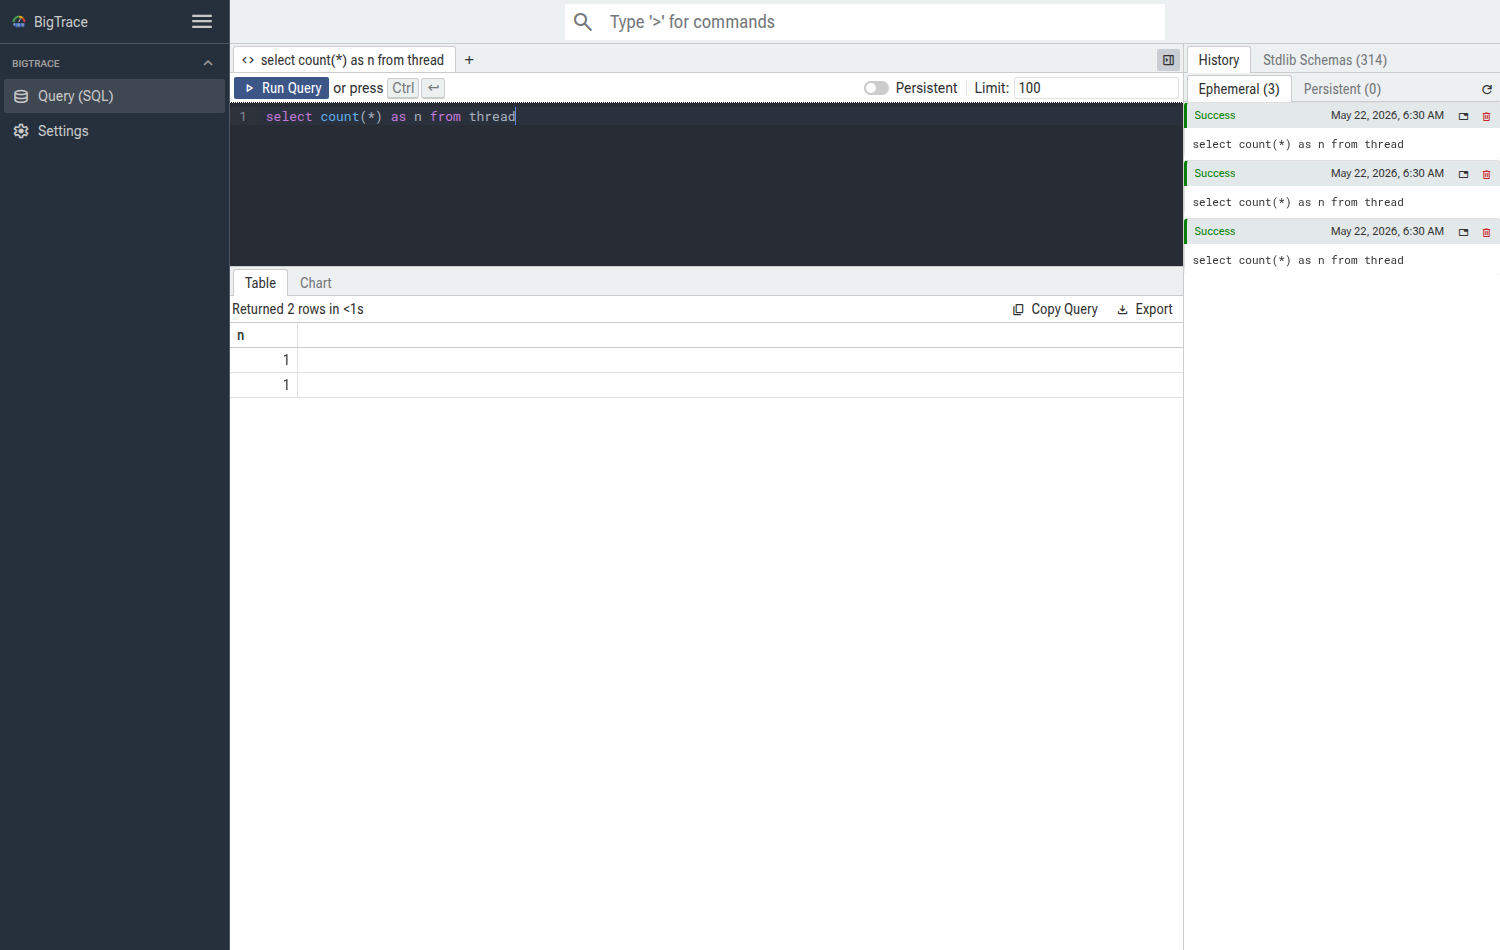
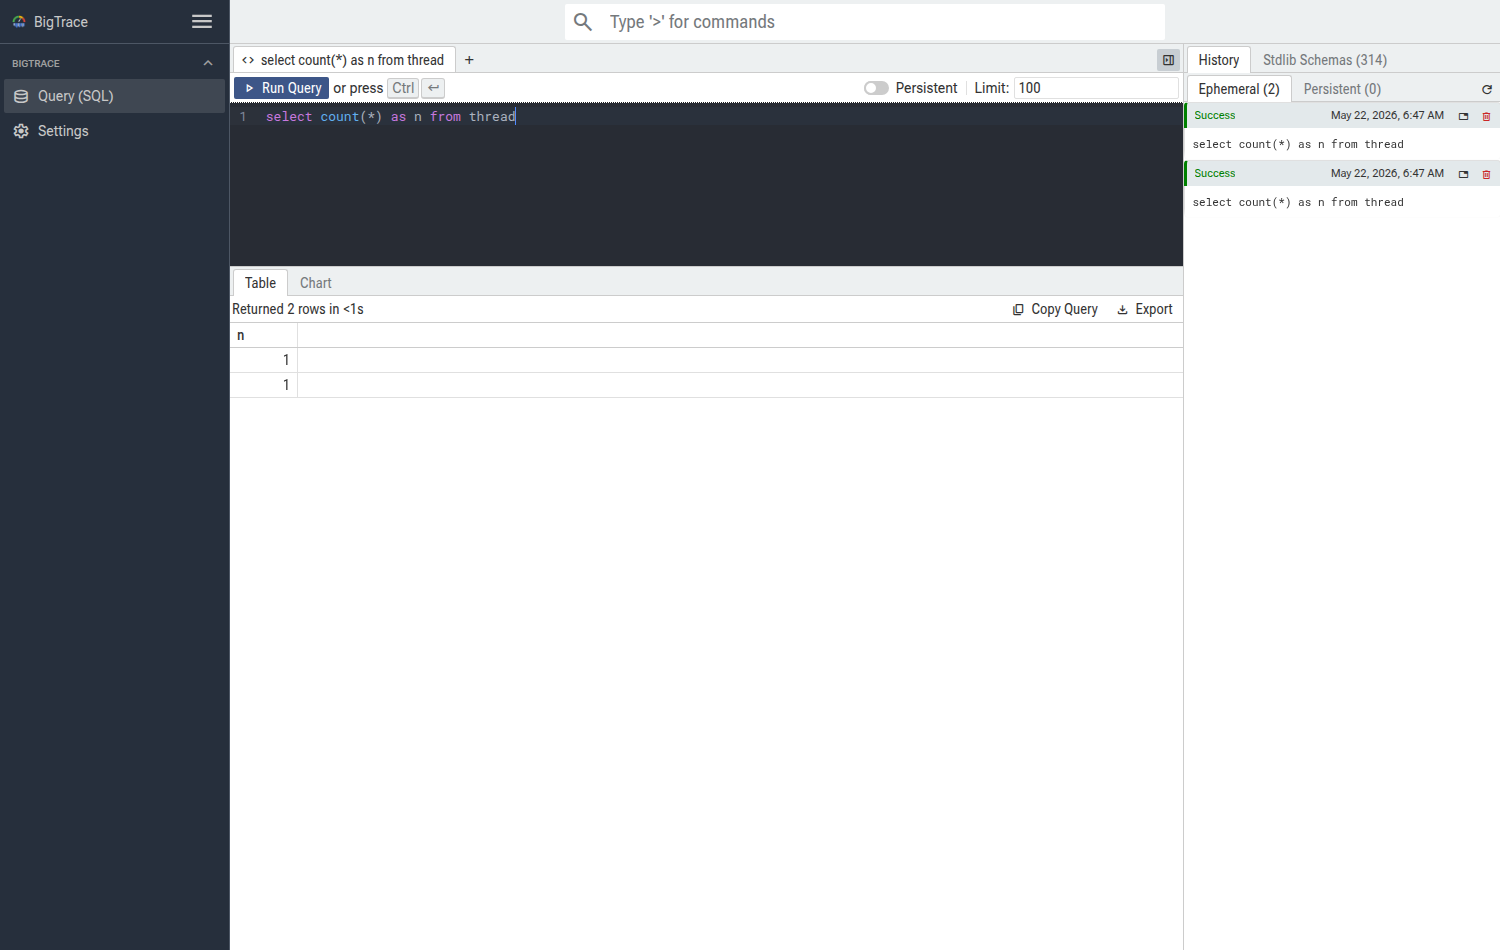
Persistent toggle -> tpd persist.db (auto-persist + re-fetch)
When the UI's Persistent switch is on the query runs materialized:
/execute_bigtrace_query_async now calls tpd persist_sql to store the merged
result as a bt_<uuid> table in persist.db, and :fetch_results re-queries that
table via sql_on_persist_db (so re-opening a Persistent history item fetches
from persist.db, not the traces). /query_executions reconciles tpd's
ls-persisted so persisted tables show in the Persistent tab across restarts;
DELETE drops the persist.db table. Adds persist RPCs to TpdClient and a
browser e2e step driving the toggle (bigtrace_persist.png).

Changed region(s): [[0.7667, 0.2137, 1.0, 0.2747]]

diff --git a/adapter.py b/adapter.py
@@ -404,6 +404,39 @@ class TpdClient:
             os.close(r_fd)
             s.close()
 
+    # ---- persist.db (server-side materialized results) --------------------
+
+    def persist_sql(self, name, sql, globs=None):
+        """Run `sql` across traces and materialize the merged result as a
+        named table in tpd's persist.db. Returns the PersistSqlResponse."""
+        msg = control_pb2.ClientMsg()
+        p = msg.persist_sql
+        p.sql = sql
+        if name:
+            p.name = name
+        for g in globs or []:
+            if g:
+                p.trace_filter_globs.append(g)
+        return self._round_trip(msg).persist_sql
+
+    def sql_on_persist_db(self, sql):
+        """Run arbitrary SQL directly against persist.db (no TP fan-out).
+        Returns (column_names, rows) where rows is a list of cell-lists."""
+        msg = control_pb2.ClientMsg()
+        msg.sql_on_persist_db.sql = sql
+        resp = self._round_trip(msg).sql_on_persist_db
+        return list(resp.column_names), [list(r.cells) for r in resp.rows]
+
+    def list_persisted(self):
+        msg = control_pb2.ClientMsg()
+        msg.list_persisted.SetInParent()
+        return self._round_trip(msg).list_persisted
+
+    def drop_persisted(self, name):
+        msg = control_pb2.ClientMsg()
+        msg.drop_persisted.name = name
+        return self._round_trip(msg).drop_persisted
+
 
 # ---------------------------------------------------------------------------
 # Bigtrace-shaped HTTP front-end.
@@ -587,6 +620,42 @@ def make_execution(sql, columns, rows, errors, materialized):
     }
 
 
+def _ms_to_iso(ms):
+    return datetime.datetime.fromtimestamp(
+        ms / 1000.0, datetime.timezone.utc).isoformat()
+
+
+def _persist_table_name(uuid):
+    # tpd persist names must match [A-Za-z_][A-Za-z0-9_]*; the bt_ prefix keeps
+    # a uuid hex (which may start with a digit) valid.
+    return "bt_" + uuid
+
+
+def _persist_uuid_for_table(name):
+    # Stable uuid for a persisted table so it keeps the same execution id
+    # across adapter restarts.
+    return _uuid.uuid5(_uuid.NAMESPACE_OID, "persist:" + name).hex
+
+
+def make_materialized_execution(uuid, sql, table_name, num_rows, start_iso=None):
+    """A materialized (Persistent) execution. Rows live in tpd's persist.db
+    table `table_name` and are fetched on demand, not held here."""
+    now = _now_iso()
+    return {
+        "queryUuid": uuid,
+        "status": "SUCCESS",
+        "startTime": start_iso or now,
+        "endTime": now,
+        "processedRows": num_rows,
+        "processedTraces": 0,
+        "totalTraces": 0,
+        "perfettoSql": sql,
+        "limit": 0,
+        "materialized": True,
+        "tableName": table_name,
+    }
+
+
 # ---- Bigtrace settings <-> tpd query knobs --------------------------------
 #
 # The Bigtrace settings page is populated from /bigtrace_execution_config
@@ -750,12 +819,19 @@ class Handler(BaseHTTPRequestHandler):
         # Bigtrace UI query-executions API (GET): history list, status,
         # detail, fetch_results.
         if path == "/query_executions":
+            # Surface persisted (materialized) tables from tpd too, so the
+            # Persistent history tab shows them even across adapter restarts.
+            self._reconcile_persisted()
             return self._send_json(200, {
                 "queryExecutions": [_raw_exec(e) for e in self.execs.list_newest_first()]
             })
         if path.startswith("/query_executions/"):
             uuid, action = self._parse_exec_path(path)
             ex = self.execs.get(uuid)
+            if ex is None and action in ("", "status"):
+                # May be a persisted table we haven't reconciled yet.
+                self._reconcile_persisted()
+                ex = self.execs.get(uuid)
             if ex is None:
                 return self._send_json(404, {"detail": f"Query {uuid} not found"})
             if action == "fetch_results":
@@ -763,6 +839,19 @@ class Handler(BaseHTTPRequestHandler):
                                           if "?" in self.path else "")
                 limit = int((q.get("limit") or ["0"])[0] or 0)
                 offset = int((q.get("offset") or ["0"])[0] or 0)
+                if ex.get("materialized") and ex.get("tableName"):
+                    # Re-query the persisted table in tpd's persist.db.
+                    try:
+                        cols, rows = self._fetch_persisted(
+                            ex["tableName"], limit, offset)
+                    except TpdError as e:
+                        return self._send_json(400, {"detail": str(e)})
+                    return self._send_json(200, {
+                        "queryUuid": uuid,
+                        "columnNames": cols,
+                        "rows": [{"values": r} for r in rows],
+                        "totalFilteredRows": ex.get("processedRows", len(rows)),
+                    })
                 rows = ex["_rows"][offset:(offset + limit) if limit else None]
                 return self._send_json(200, {
                     "queryUuid": uuid,
@@ -845,17 +934,54 @@ class Handler(BaseHTTPRequestHandler):
         path = self.path.split("?", 1)[0]
         if path.startswith("/query_executions/"):
             uuid, _ = self._parse_exec_path(path)
+            ex = self.execs.get(uuid)
+            # Forgetting a Persistent query drops its persist.db table too.
+            if ex and ex.get("materialized") and ex.get("tableName"):
+                try:
+                    self.client.drop_persisted(ex["tableName"])
+                except TpdError:
+                    pass
             self.execs.delete(uuid)
             return self._send_json(200, {})
         self._send_json(404, {"error": f"unknown path {path}"})
 
+    # ---- persist.db helpers ------------------------------------------------
+
+    def _fetch_persisted(self, table, limit, offset):
+        q = 'SELECT * FROM "%s"' % table.replace('"', '""')
+        if limit:
+            q += " LIMIT %d OFFSET %d" % (int(limit), int(offset))
+        elif offset:
+            q += " LIMIT -1 OFFSET %d" % int(offset)
+        return self.client.sql_on_persist_db(q)
+
+    def _reconcile_persisted(self):
+        """Register tpd persist.db tables we don't already track as
+        materialized executions (so they show + re-fetch after a restart)."""
+        try:
+            lp = self.client.list_persisted()
+        except TpdError:
+            return
+        have = {e.get("tableName") for e in self.execs.list_newest_first()
+                if e.get("tableName")}
+        for t in lp.tables:
+            if t.name in have:
+                continue
+            uuid = _persist_uuid_for_table(t.name)
+            if self.execs.get(uuid) is not None:
+                continue
+            self.execs.put(make_materialized_execution(
+                uuid, t.source_sql, t.name, t.num_rows,
+                start_iso=_ms_to_iso(t.created_unix_ms) if t.created_unix_ms else None))
+
     def _handle_execute(self, materialized):
         """Bigtrace UI endpoint: {limit, perfetto_sql, settings} -> table.
 
-        Runs the query against tpd now, records the execution (so the
-        query-executions API can report it terminal + page results), and
-        returns the result page. `/execute_bigtrace_query_async` lands here
-        too — we execute synchronously, so the UI's poll sees SUCCESS at once.
+        Non-materialized (Persistent off): run synchronously against tpd, hold
+        the result in memory, return it. Materialized (Persistent on): persist
+        the merged result into tpd's persist.db via persist_sql (auto-persist),
+        then page rows back from there on demand — so the Persistent history
+        item re-queries the persisted table when you re-open/fetch it.
         """
         req = self._read_json_body()
         sql = req.get("perfetto_sql") or req.get("sql_query") or req.get("sql")
@@ -863,6 +989,25 @@ class Handler(BaseHTTPRequestHandler):
             return self._send_json(400, {"error": "field 'perfetto_sql' required"})
         limit = int(req.get("limit", 0) or 0)
         opts = parse_settings(req.get("settings"))
+
+        if materialized:
+            uuid = _uuid.uuid4().hex
+            name = _persist_table_name(uuid)
+            try:
+                # persist_sql only filters by trace globs (no state/max-traces).
+                resp = self.client.persist_sql(
+                    name, sql, globs=opts.get("traces") or None)
+                cols, rows = self._fetch_persisted(resp.name or name, limit, 0)
+            except TpdError as e:
+                return self._send_json(400, {"detail": str(e)})
+            self.execs.put(make_materialized_execution(
+                uuid, sql, resp.name or name, resp.num_rows))
+            return self._send_json(200, {
+                "queryUuid": uuid,
+                "columnNames": cols,
+                "rows": [{"values": r} for r in rows],
+            })
+
         try:
             columns, rows, errors = execute_bigtrace_query(
                 self.client, sql, limit, opts)

diff --git a/README.md b/README.md
@@ -69,6 +69,17 @@ values ride along on every query and map 1:1 to `tpd_cli query` flags:
 | Traces (multi-select)          | trace filter globs (empty = all)       |
 | Limit (query toolbar)          | `--max-rows`                           |
 
+### Persistent queries → tpd persist.db
+
+Toggling **Persistent** on in the query toolbar materializes the result into
+tpd's `persist.db`: the adapter calls tpd `persist_sql` (the same thing
+`tpd_cli persist` does), stores it as a `bt_<uuid>` table, and the query
+shows in the **History → Persistent** tab. Re-opening it (or the grid
+paging) re-queries the persisted table via tpd `sql_on_persist_db` — no
+re-run against the traces. Deleting a persistent query from the UI drops its
+persist.db table. Persisted tables created out-of-band (e.g. `tpd_cli
+persist`) also appear in the Persistent tab.
+
 ## Also: adapter-native + per-trace API
 
 Independent of the UI, the adapter exposes a Bigtrace-shaped JSON API:
